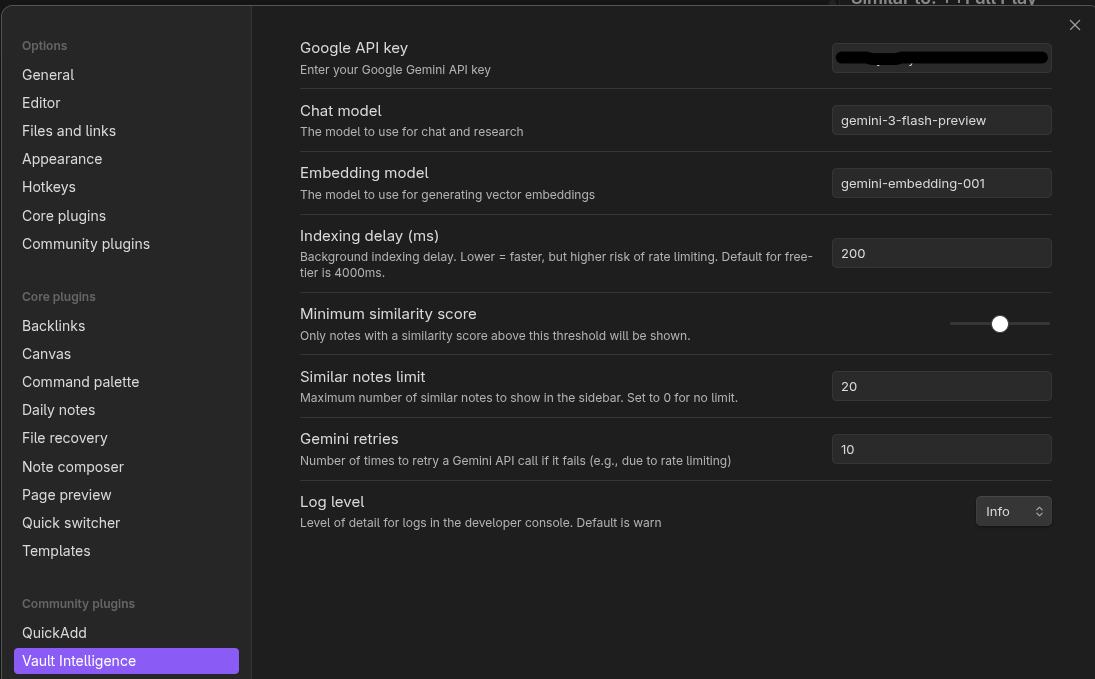
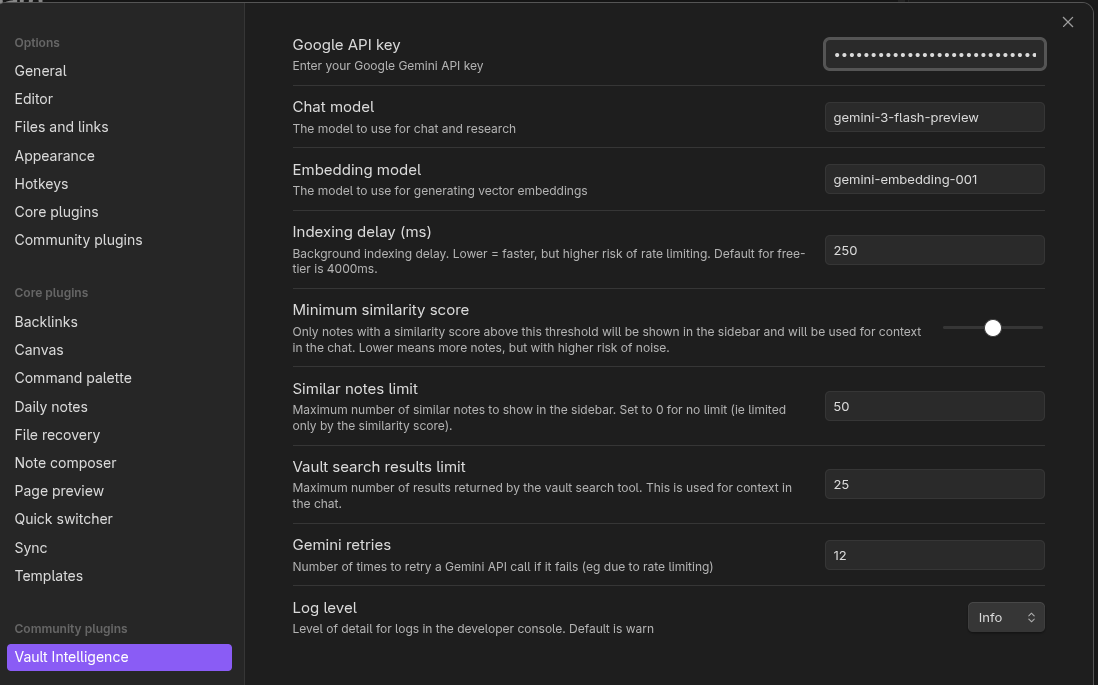
docs: update configuration section for consistency and clarity and updated screenshots of user settings page

diff --git a/README.md b/README.md
@@ -78,13 +78,13 @@ Note that this is contextual similarity, not just word similarity.
 
 ## Configuration
 
-- **Embedding Model**: Defaulted to `gemini-embedding-001` for stable performance. See [Gemini API | Embeddings](https://ai.google.dev/gemini-api/docs/embeddings) for available models.
-- **Chat Model**: Defaulted to `gemini-3-flash-preview` for cutting-edge capabilities. See [Gemini API | Gemini Models](https://ai.google.dev/gemini-api/docs/models) for available models.
+- **Embedding model**: Defaulted to `gemini-embedding-001` for stable performance. See [Gemini API | Embeddings](https://ai.google.dev/gemini-api/docs/embeddings) for available models.
+- **Chat model**: Defaulted to `gemini-3-flash-preview` for cutting-edge capabilities. See [Gemini API | Gemini Models](https://ai.google.dev/gemini-api/docs/models) for available models.
 - **Vault search results limit**: Control how many results are returned by the hybrid vault search (default `25`). This affects both the Similar Notes view and the Research Chat. More results may improve answer quality but increase latency and cost.
-- **Minimum Similarity Score**: Fine-tune how "related" a note must be to appear in your sidebar (default `0.5`).
-- **Indexing Delay**: Control the speed of background indexing. Higher values reduce the risk of rate limiting on large vaults.
-- **Gemini Retries**: Automatically retry failed API calls (useful for handling usage limits).
-- **Log Level**: Control the verbosity of logs in the developer console (`Debug`, `Info`, `Warn`, `Error`). Level `Info` will show indexing progress.
+- **Minimum similarity score**: Fine-tune how "related" a note must be to appear in your sidebar (default `0.5`).
+- **Indexing delay**: Control the speed of background indexing. Higher values reduce the risk of rate limiting on large vaults.
+- **Gemini retries**: Automatically retry failed API calls (useful for handling usage limits).
+- **Log level**: Control the verbosity of logs in the developer console (`Debug`, `Info`, `Warn`, `Error`). Level `Info` will show indexing progress.
 
 ![Screenshot: Plugin options](images/options.webp)
 
